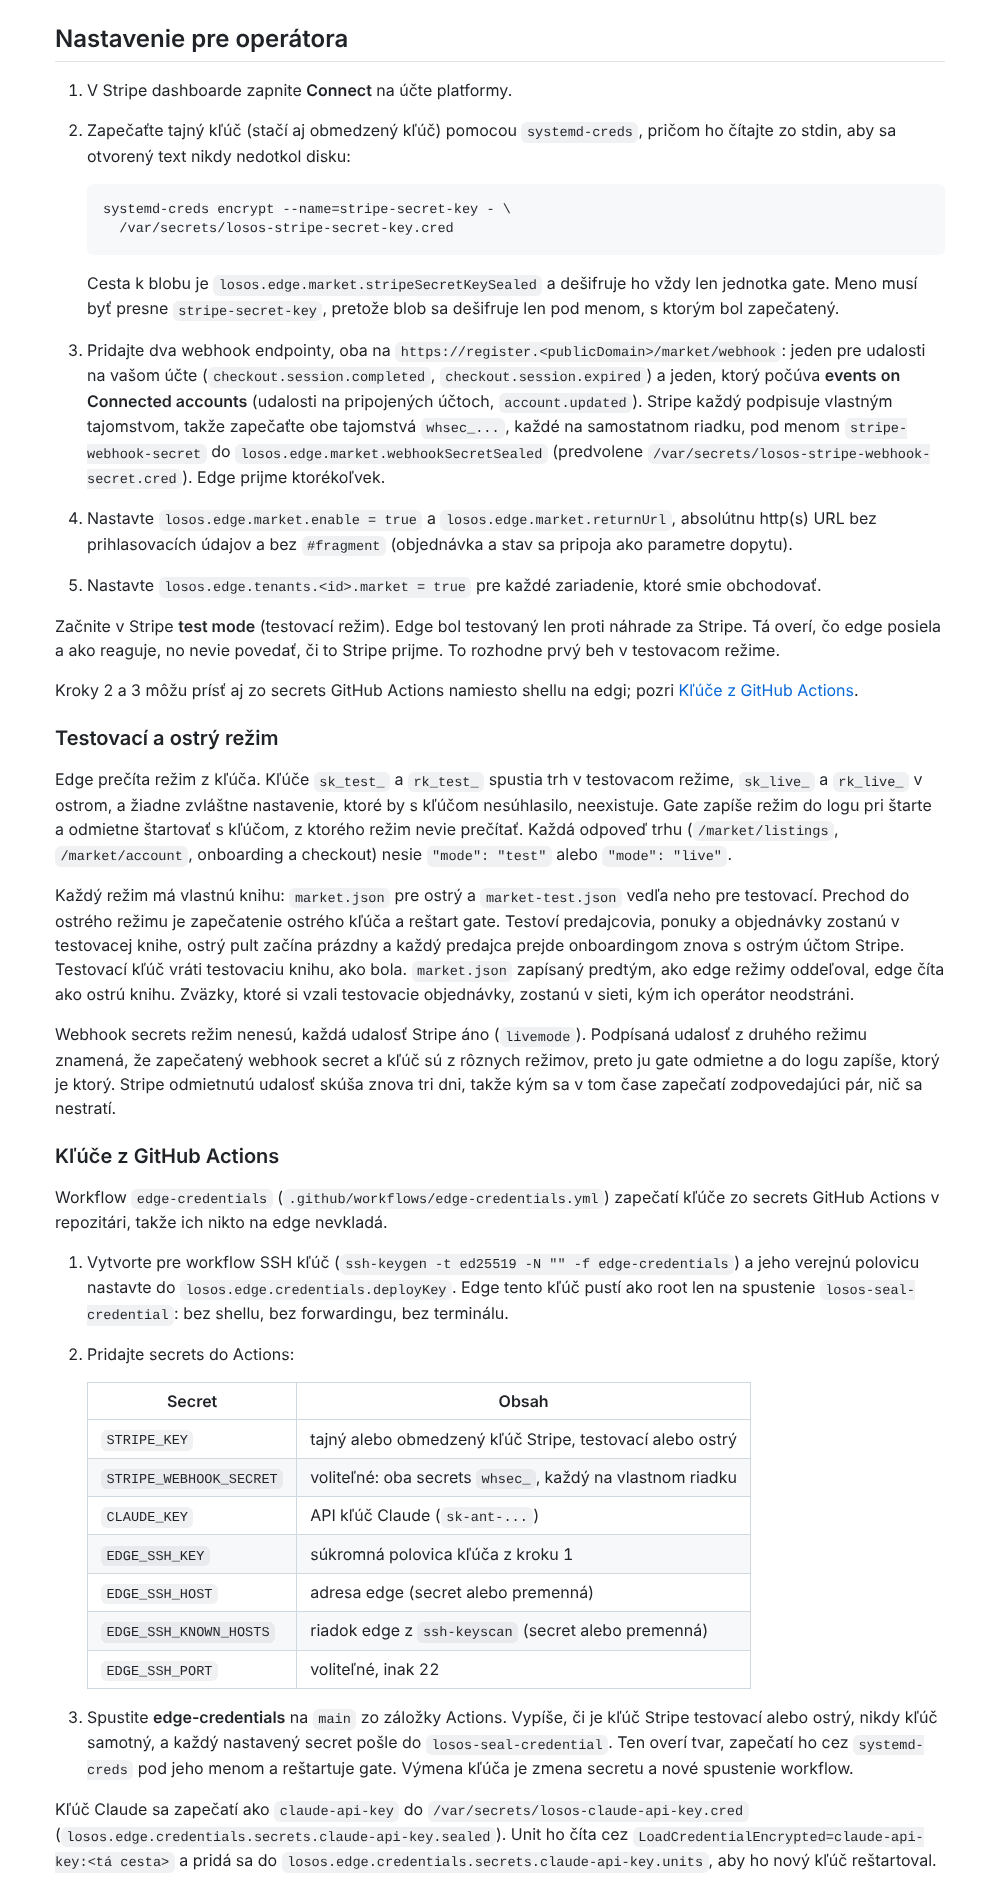
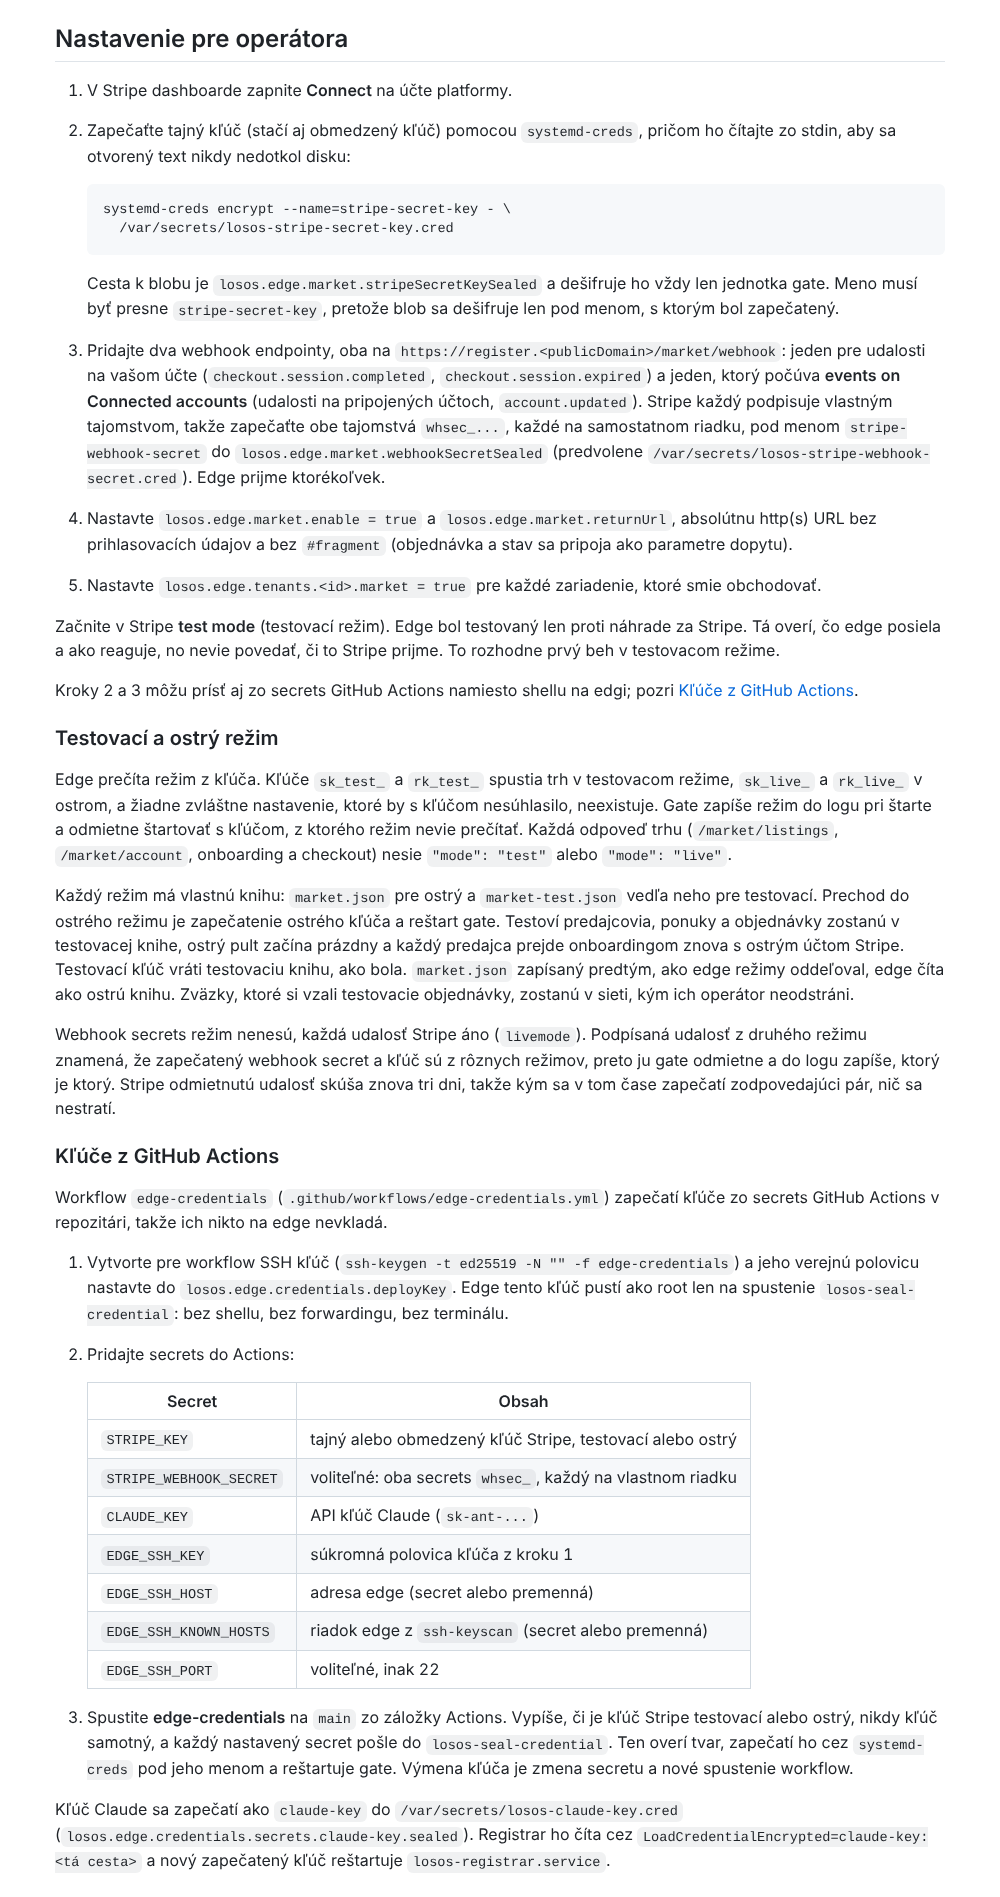
Seal the Claude key as claude-key for the registrar
The AI widget builder loads the key in losos-registrar.service as
claude-key from /var/secrets/losos-claude-key.cred. Seal it under that
name and path, and restart the registrar when a new key is sealed.

Changed region(s): [[0.341, 0.9642, 0.93, 0.9953], [0.186, 0.9642, 0.31, 0.9953]]

diff --git a/wiki/Market-de.md b/wiki/Market-de.md
@@ -302,12 +302,11 @@ niemand sie auf der Edge einfügt.
    Namen und startet das Gate neu. Einen Schlüssel tauschen heißt, das Secret
    zu ändern und den Workflow erneut zu starten.
 
-Der Claude-Schlüssel wird als `claude-api-key` nach
-`/var/secrets/losos-claude-api-key.cred` versiegelt
-(`losos.edge.credentials.secrets.claude-api-key.sealed`). Eine Unit liest ihn
-mit `LoadCredentialEncrypted=claude-api-key:<dieser Pfad>` und trägt sich in
-`losos.edge.credentials.secrets.claude-api-key.units` ein, damit ein neuer
-Schlüssel sie neu startet.
+Der Claude-Schlüssel wird als `claude-key` nach
+`/var/secrets/losos-claude-key.cred` versiegelt
+(`losos.edge.credentials.secrets.claude-key.sealed`). Der Registrar liest ihn
+mit `LoadCredentialEncrypted=claude-key:<dieser Pfad>`, und ein neu
+versiegelter Schlüssel startet `losos-registrar.service` neu.
 
 ## Sicherheitseigenschaften
 

diff --git a/wiki/Market-sk.md b/wiki/Market-sk.md
@@ -272,12 +272,11 @@ nevkladá.
    cez `systemd-creds` pod jeho menom a reštartuje gate. Výmena kľúča je zmena
    secretu a nové spustenie workflow.
 
-Kľúč Claude sa zapečatí ako `claude-api-key` do
-`/var/secrets/losos-claude-api-key.cred`
-(`losos.edge.credentials.secrets.claude-api-key.sealed`). Unit ho číta cez
-`LoadCredentialEncrypted=claude-api-key:<tá cesta>` a pridá sa do
-`losos.edge.credentials.secrets.claude-api-key.units`, aby ho nový kľúč
-reštartoval.
+Kľúč Claude sa zapečatí ako `claude-key` do
+`/var/secrets/losos-claude-key.cred`
+(`losos.edge.credentials.secrets.claude-key.sealed`). Registrar ho číta cez
+`LoadCredentialEncrypted=claude-key:<tá cesta>` a nový zapečatený kľúč
+reštartuje `losos-registrar.service`.
 
 ## Bezpečnostné vlastnosti
 

diff --git a/wiki/Market.md b/wiki/Market.md
@@ -269,12 +269,11 @@ on the edge.
    and restarts the gate. Rotating a key is changing the secret and running
    the workflow again.
 
-The Claude key is sealed as `claude-api-key` to
-`/var/secrets/losos-claude-api-key.cred`
-(`losos.edge.credentials.secrets.claude-api-key.sealed`). A unit reads it
-with `LoadCredentialEncrypted=claude-api-key:<that path>` and adds itself to
-`losos.edge.credentials.secrets.claude-api-key.units`, so a new key restarts
-it.
+The Claude key is sealed as `claude-key` to
+`/var/secrets/losos-claude-key.cred`
+(`losos.edge.credentials.secrets.claude-key.sealed`). The registrar reads it
+with `LoadCredentialEncrypted=claude-key:<that path>`, and sealing a new key
+restarts `losos-registrar.service`.
 
 ## Safety properties
 
